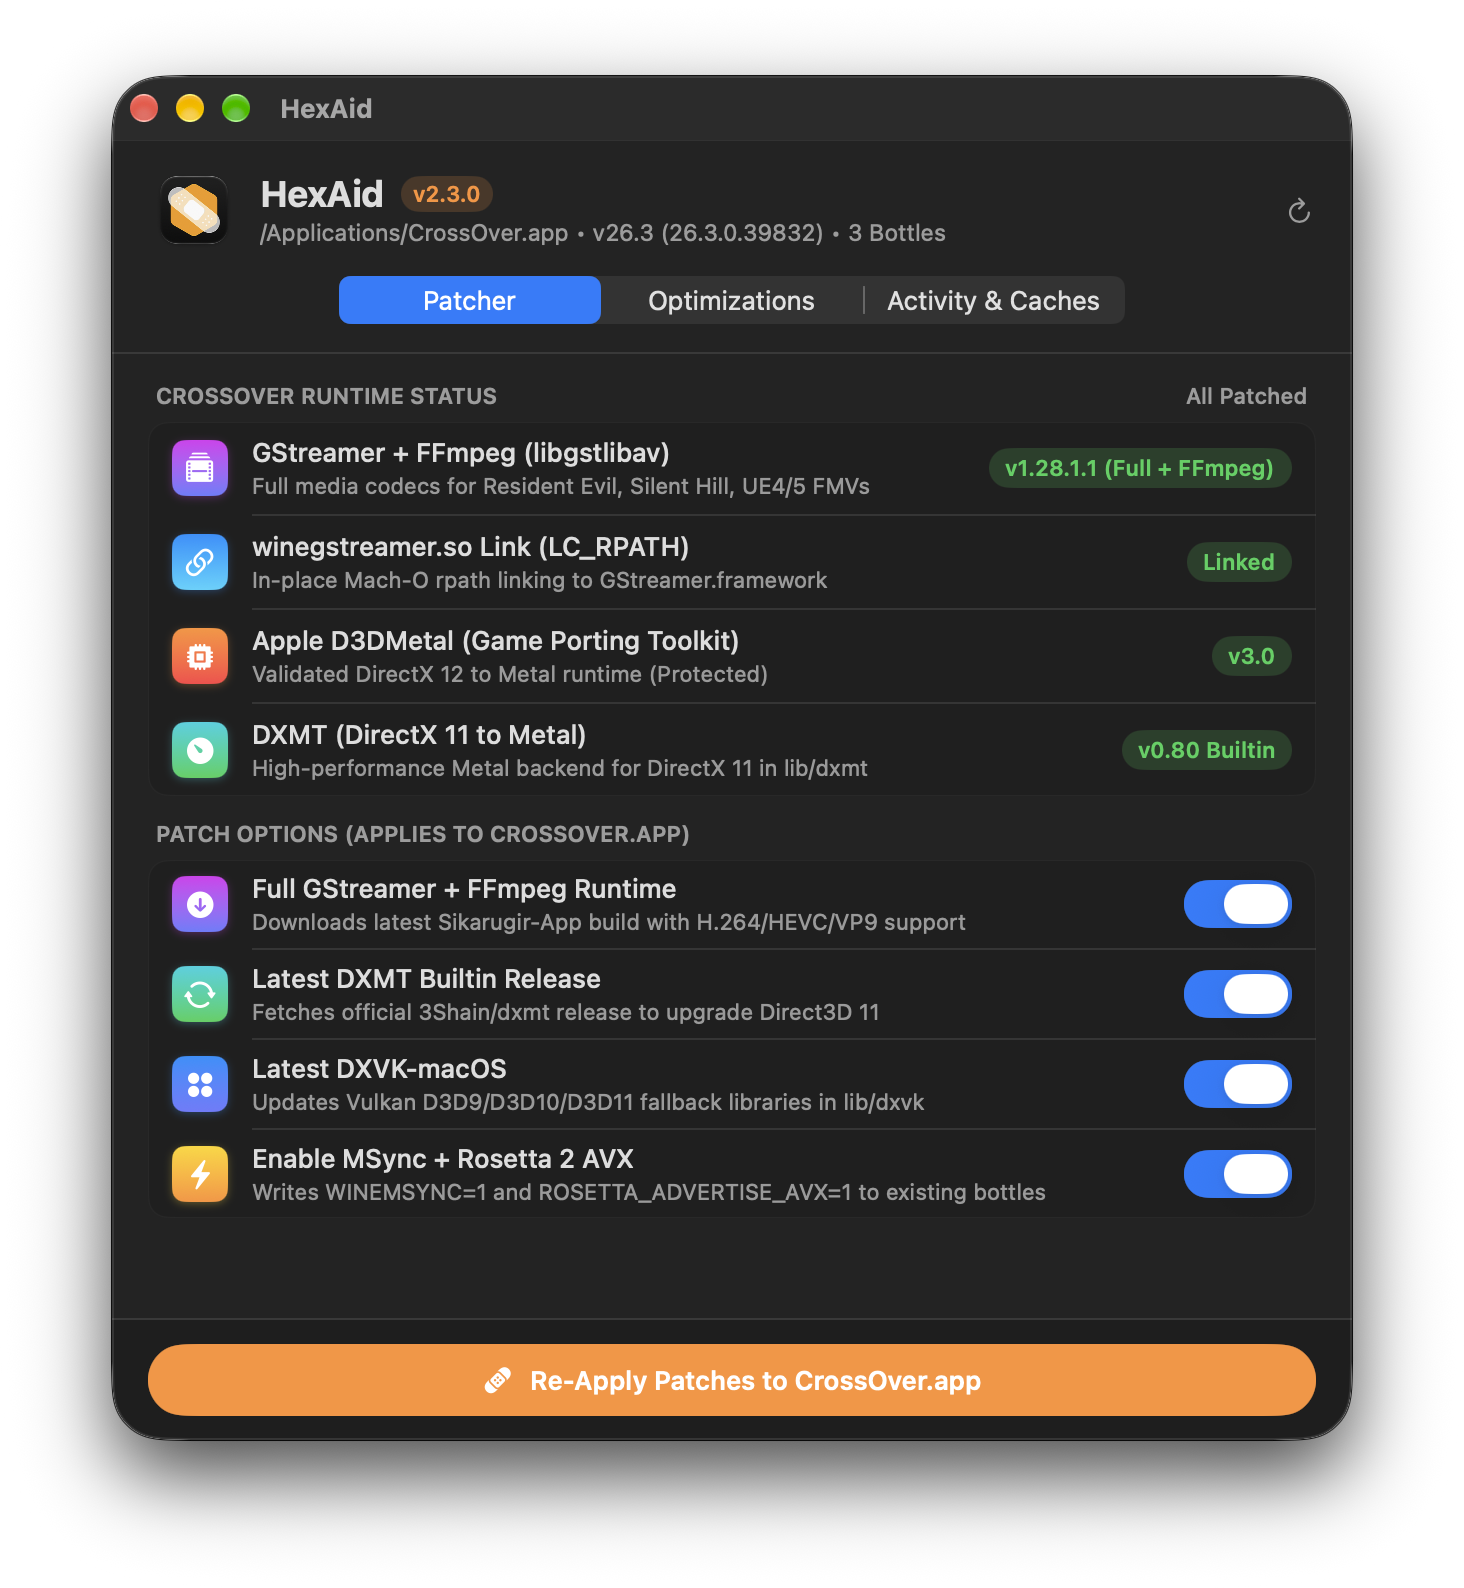
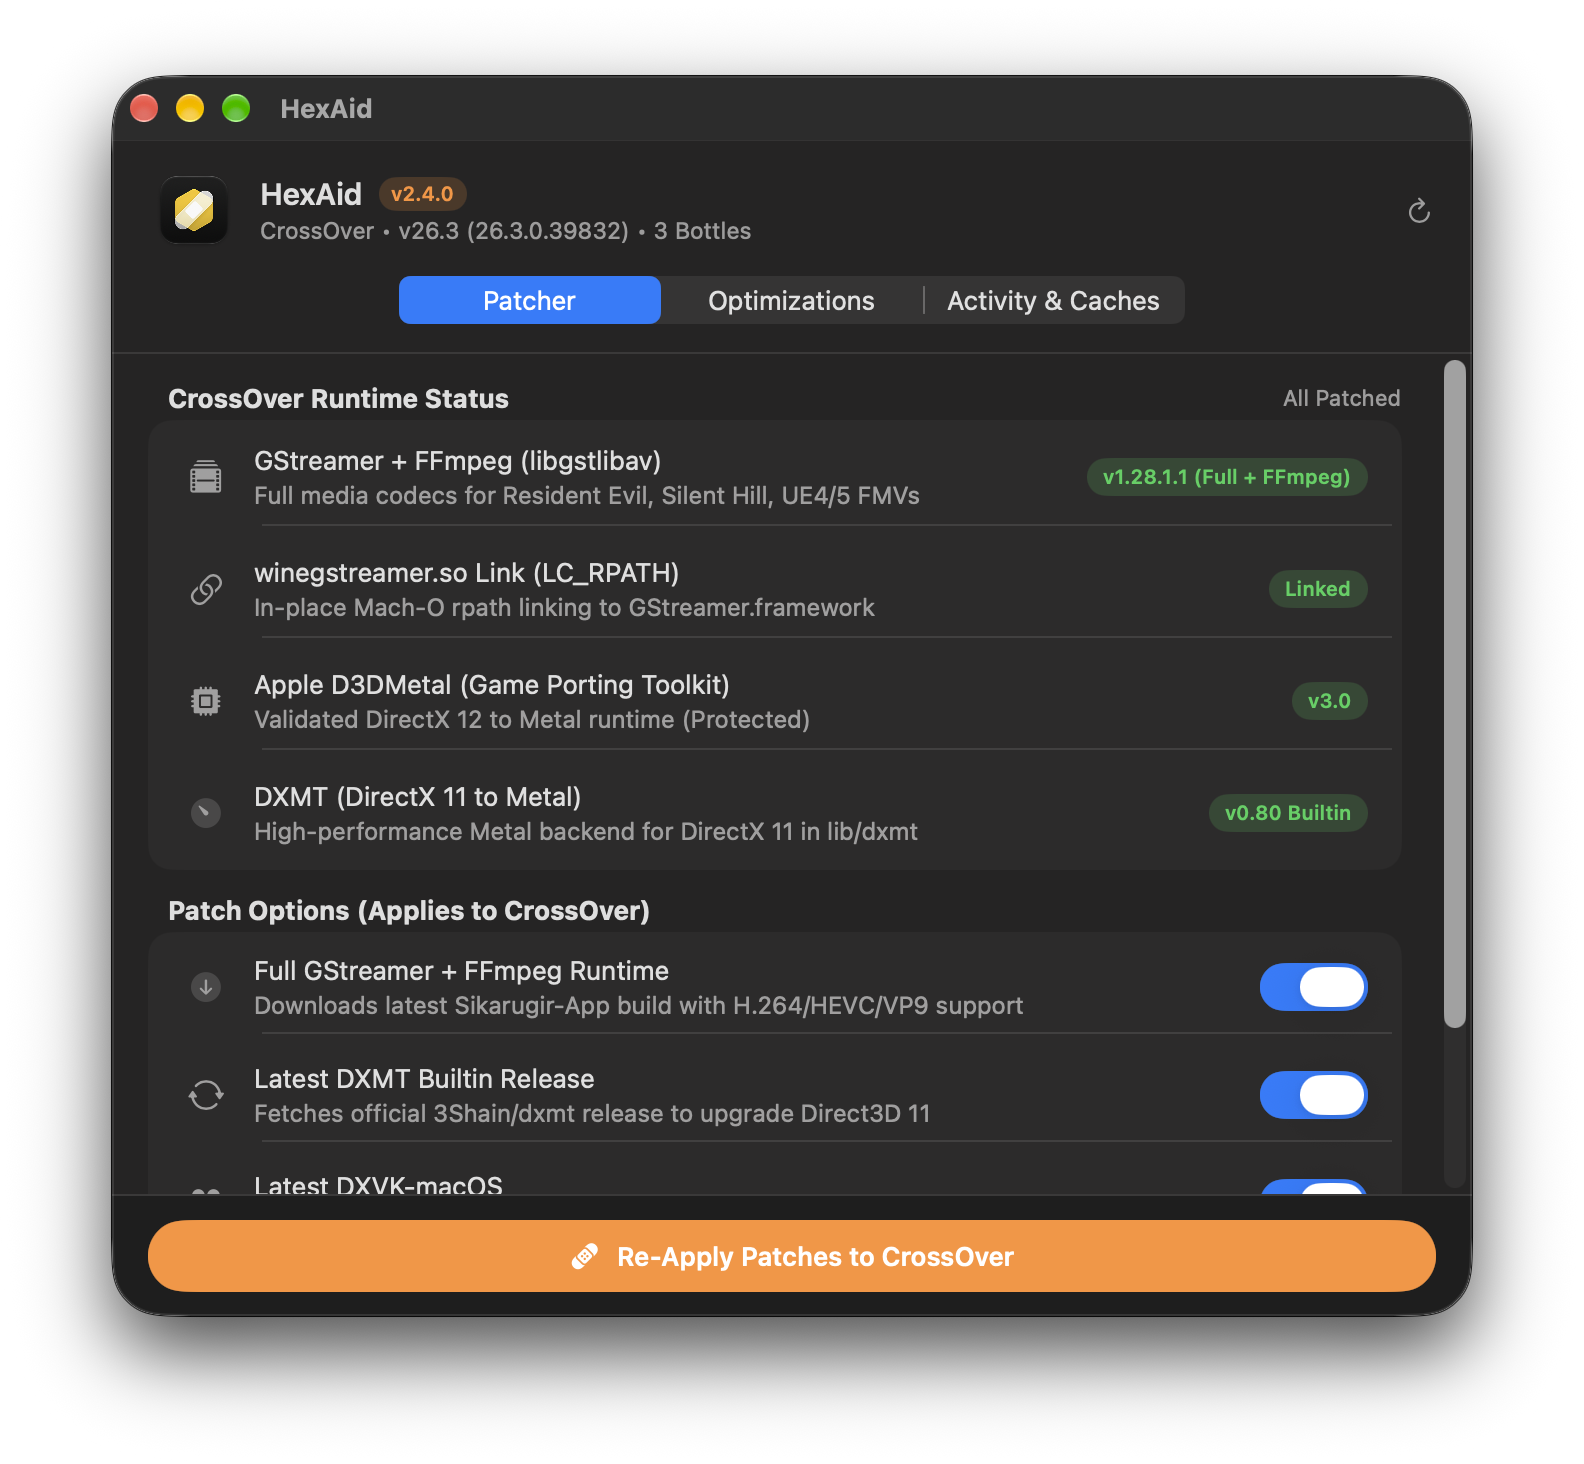
docs: unify README format, align version info, and include in-app screenshots

diff --git a/README.md b/README.md
@@ -6,105 +6,54 @@
 
 <p align="center">
   <strong>One-click in-place patcher for CrossOver on Apple Silicon macOS</strong><br/>
-  Detects CrossOver and CrossOver Preview, then upgrades GStreamer (with FFmpeg / Media Foundation decoding), DXMT, DXVK, Apple Game Porting Toolkit (<code>D3DMetal.framework</code>), and bottle performance settings in the selected installation.
+  Detects CrossOver and CrossOver Preview, upgrading GStreamer (FFmpeg), DXMT, DXVK, and bottle performance settings in-place while protecting Apple <code>D3DMetal.framework</code>.
 </p>
 
 <p align="center">
   <a href="https://github.com/passs0/HexAid/releases/latest"><img src="https://img.shields.io/github/v/release/passs0/HexAid?label=Latest%20Release&color=007AFF" alt="Latest Release" /></a>
-  <img src="https://img.shields.io/badge/version-2.4.0-blue" alt="Version 2.4.0" />
   <img src="https://img.shields.io/badge/macOS-13.0%2B%20%7C%20Apple%20Silicon-black?logo=apple" alt="macOS 13.0+" />
   <img src="https://img.shields.io/badge/framework-SwiftUI%20%7C%20AppKit-blue" alt="Frameworks" />
   <a href="LICENSE"><img src="https://img.shields.io/badge/license-MIT-green" alt="MIT License" /></a>
+</p>
+
+<p align="center">
+  <img src="assets/preview.png" width="600" alt="HexAid Interface" />
 </p>
 
 ---
 
 > [!NOTE]
 > **AI-Generated Tool Disclosure**
-> **HexAid** (including its SwiftUI source code, patching automation, and Apple Liquid Glass icon design) is an **AI-generated tool** created with **Antigravity** (Google DeepMind) and inspired by the open-source macOS gaming community's work on **CXPatcher** and **Procyon**.
+> **HexAid** (including its SwiftUI source code, patching automation, and Apple Liquid Glass icon design) is an **AI-generated tool** created with **Antigravity** (Google DeepMind) and inspired by **CXPatcher** and **Procyon**.
 
 ---
 
-## ✨ Why HexAid?
+## Features
 
-When CodeWeavers CrossOver updates (or ships out of the box), several key components are either stripped down for licensing reasons or lag behind the latest community releases:
-- **Broken / Freeze-Prone In-Game Cutscenes:** Stock CrossOver omits the GStreamer `libav` (FFmpeg) plugin (`libgstlibav.dylib`), causing games like *Silent Hill 2 Remake*, *Resident Evil*, and other Unreal Engine 4/5 titles using Windows Media Foundation (`winegstreamer`) to freeze or display a black screen when playing H.264/HEVC/VP9 cutscenes.
-- **Duplicate App Clutter (`Crossover_patched.app`) & Missing D3DMetal:** Earlier wrapper tools either required launching CrossOver through a secondary app or duplicated `CrossOver.app` while accidentally stripping `lib64/apple_gptk` (`D3DMetal`).
+- **In-Place Patching (No Duplicate App):** Patches CrossOver or CrossOver Preview directly in `/Applications` or `~/Applications`—existing bottles and games benefit immediately.
+- **Full GStreamer + FFmpeg (`libgstlibav.dylib`):** Installs [`Sikarugir-App/gstreamer`](https://github.com/Sikarugir-App/gstreamer) and links `winegstreamer.so` via `install_name_tool` to fix frozen/black UE4 & UE5 cutscenes.
+- **Latest DXMT & DXVK-macOS:** Fetches the latest [`3Shain/dxmt`](https://github.com/3Shain/dxmt) (D3D10/11 to Metal) and optional [`Gcenx/DXVK-macOS`](https://github.com/Gcenx/DXVK-macOS) releases.
+- **Protected `D3DMetal.framework`:** Verifies CodeWeavers' validated Game Porting Toolkit framework without injecting ABI-breaking beta binaries.
+- **Optimizations & Tweaks:** One-click NVIDIA RTX (`0x10DE`) D3DMetal spoofing (unlocks DLSS/MetalFX), Apple Metal Performance HUD (`MTL_HUD_ENABLED=1`), macOS Game Mode injection, `WINEMSYNC=1`, and `ROSETTA_ADVERTISE_AVX=1`.
+- **Shader & Registry Maintenance:** Inspects and purges D3DMetal shader caches and GStreamer registries in one click.
 
-**HexAid detects CrossOver and CrossOver Preview in `/Applications` and `~/Applications`. If both are installed, select the app bundle to patch:**
-- **No duplicate `Crossover_patched.app`**—launch CrossOver normally from your Dock or Applications folder.
-- **Preserves and protects Apple Game Porting Toolkit (`D3DMetal.framework`)** from accidental deletion or incompatible beta tampering.
-- **Existing (Old) Bottles Automatically Benefit:** Because CrossOver bottles load their graphics backends (`D3DMetal`, `DXMT`, `DXVK`) and media libraries (`winegstreamer.so` + `GStreamer.framework`) from the selected CrossOver app at runtime, **the selected installation’s configured bottle directory and its installed games benefit**—no need to recreate bottles or reinstall games!
+## Installation
 
----
+### Download Release
+1. Download **`HexAid-v2.4.0.dmg`** from [GitHub Releases](https://github.com/passs0/HexAid/releases/latest) and drag **`HexAid.app`** to `/Applications`.
+2. On first launch, right-click `HexAid.app` ➔ **Open**, or run `xattr -cr /Applications/HexAid.app`.
 
-## 🚀 Features
-
-1. **Full GStreamer + FFmpeg (`libgstlibav.dylib`) Upgrade**
-   - Automatically fetches the latest universal `GStreamer.framework` build from [`Sikarugir-App/gstreamer`](https://github.com/Sikarugir-App/gstreamer).
-   - Removes conflicting partial `libgst*` / `libglib*` libraries in the selected app bundle’s `Contents/SharedSupport/CrossOver/lib64`, links `lib64/gstreamer-1.0` to `GStreamer.framework`, and adds `@loader_path/../../../lib64/GStreamer.framework/Versions/Current/lib` to `winegstreamer.so` via `install_name_tool`.
-2. **Latest DXMT (Direct3D 10/11 to Metal)**
-   - Automatically queries GitHub Releases for the latest [`3Shain/dxmt`](https://github.com/3Shain/dxmt) release and installs `d3d10core.dll`, `d3d11.dll`, `dxgi.dll`, and `winemetal.dll`/`winemetal.so` into the selected app bundle.
-3. **Latest DXVK-macOS (Optional Toggle)**
-   - Queries [`Gcenx/DXVK-macOS`](https://github.com/Gcenx/DXVK-macOS) and upgrades `lib/dxvk` (`x86_64-windows` and `i386-windows`).
-4. **Apple Game Porting Toolkit (`D3DMetal.framework`) Integrity & Protection**
-   - Verifies that CrossOver's officially validated `lib64/apple_gptk/external/D3DMetal.framework` is intact and healthy (preventing legacy wrapper bugs that stripped D3DMetal).
-   - **Why standalone beta GPTK injection is intentionally avoided:** Apple's newer GPTK betas introduce tight internal ABI dependencies between `D3DMetal.framework` and Wine's PE Direct3D 12 libraries (`d3d12.dll`). Injecting unverified beta frameworks into CrossOver causes severe entry point and ABI mismatches that crash DirectX 12 games. CodeWeavers officially tests and bundles verified D3DMetal builds with CrossOver releases; HexAid safely protects this tested engine.
-5. **NVIDIA RTX D3DMetal Spoofing (`0x10DE` / RTX 4090)**
-   - Configures D3DMetal to report an NVIDIA GPU instead of an AMD GPU. Completely eliminates the infamous "Outdated AMD Graphics Driver" error in Unreal Engine 5 titles (*Silent Hill 2*, *Lords of the Fallen*, etc.) and unlocks in-game NVIDIA DLSS options (which map directly to native **Apple MetalFX**).
-6. **Apple Metal Performance HUD Overlay (`MTL_HUD_ENABLED=1`)**
-   - One-click toggle to enable or disable Apple's native Metal real-time performance HUD (FPS, frame-time graph, and GPU memory load) across all your bottles.
-7. **macOS Game Mode Enabler**
-   - Injects `LSApplicationCategoryType = public.app-category.games` into the selected app bundle and your game launchers in `~/Applications/CrossOver`, ensuring macOS `gamepolicyd` prioritizes CPU/GPU resources and boosts Bluetooth controller polling rates in full screen.
-8. **Storage & Shader Cache Inspector**
-   - Scans and calculates the actual disk space consumed by D3DMetal shader caches in `/var/folders` and GStreamer registries, providing one-click cache purging.
-9. **Existing Bottle Performance Optimizations**
-   - Scans bottles in the selected installation’s configured bottle directory (falling back to `~/Library/Application Support/CrossOver/Bottles/`) and enables `WINEMSYNC=1` (MSync) and `ROSETTA_ADVERTISE_AVX=1` (AVX/AVX2 advertising under Rosetta 2) in `cxbottle.conf`.
-
----
-
-## 🖥 User Interface & Workspaces
-
-HexAid keeps patching, bottle optimizations, and cache maintenance in three workspaces. Runtime status uses compact system-symbol rows and native group sections; cache purging asks for confirmation because the caches are rebuilt during later use. Screenshots are omitted until they can be refreshed from this release's interface.
-
----
-
-## 📦 Installation
-
-### Option 1: Direct Download (Pre-built macOS Disk Image - Recommended)
-1. Download **[`HexAid-v2.4.0.dmg`](https://github.com/passs0/HexAid/releases/latest)** from [GitHub Releases](https://github.com/passs0/HexAid/releases).
-2. Open the downloaded `.dmg` and drag **`HexAid.app`** directly into the **`Applications`** folder shortcut.
-3. Open **`HexAid.app`** from `/Applications` and click **Patch CrossOver Now**!
-   - *Note: If macOS Gatekeeper flags the binary on first launch (ad-hoc signed), right-click `HexAid.app` ➔ **Open**, or run `xattr -cr /Applications/HexAid.app`.*
-
-### Option 2: Build from Source
-HexAid has no external runtime dependencies. Build with Swift and the macOS Command Line Tools; Xcode 26.6 or later is required to compile the dynamic icon catalog. The app targets macOS 13 and later. When both CrossOver variants are detected, HexAid lets you select which one to patch. Without `actool`, a local build uses the legacy static icon:
+### Build from Source
 ```zsh
-git clone https://github.com/passs0/HexAid.git
-cd HexAid
-chmod +x build.sh
+git clone https://github.com/passs0/HexAid.git && cd HexAid
 ./build.sh
 cp -R build/HexAid.app /Applications/
 ```
 
-Whenever the selected CrossOver installation updates, open **HexAid** from `/Applications`, confirm the selected app in the header, and re-apply its patches.
+## Credits
 
----
+Inspired by [CXPatcher](https://github.com/italomandara/CXPatcher), Procyon, [3Shain/dxmt](https://github.com/3Shain/dxmt), [Sikarugir-App/gstreamer](https://github.com/Sikarugir-App/gstreamer), and [Gcenx/DXVK-macOS](https://github.com/Gcenx/DXVK-macOS).
 
-## 🙏 Credits & Acknowledgments
-
-**HexAid** is directly based on and inspired by the pioneering work of the macOS CrossOver / Wine gaming community:
-
-- **[CXPatcher](https://github.com/italomandara/CXPatcher)** by **[@italomandara](https://github.com/italomandara)** — The original macOS patcher for CrossOver that pioneered integrating custom DXVK, DXMT, D3DMetal (GPTK), and GStreamer upgrades, as well as bottle configuration tweaks.
-- **Procyon** — For demonstrating the GStreamer framework bundle layout and runtime environment ideas for fixing Windows Media Foundation (`winegstreamer`) cutscenes.
-- **[3Shain/dxmt](https://github.com/3Shain/dxmt)** by **[@3Shain](https://github.com/3Shain)** — Metal-based Direct3D 10/11 implementation for Wine/CrossOver on macOS.
-- **[Sikarugir-App/gstreamer](https://github.com/Sikarugir-App/gstreamer)** & **[Gcenx/DXVK-macOS](https://github.com/Gcenx/DXVK-macOS)** by **[@Gcenx](https://github.com/Gcenx)** — Prebuilt universal `GStreamer.framework` (with full FFmpeg/`libav` support) and macOS DXVK builds.
-- **[CodeWeavers CrossOver](https://www.codeweavers.com/crossover)** & **Apple Game Porting Toolkit (`D3DMetal`)**.
-
----
-
-## 📄 License
+## License
 
 Released under the [MIT License](LICENSE).
-
-See [release notes](RELEASE_NOTES.md) and the [roadmap](ROADMAP.md).
